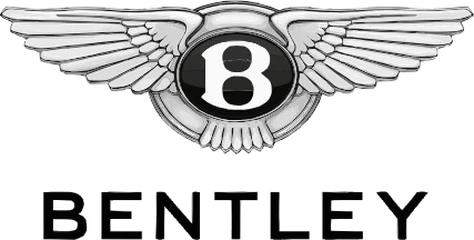
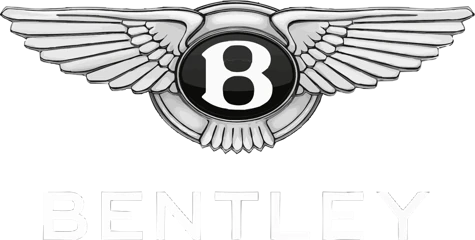
fix(partners): add Maserati; Bentley + Porsche wordmarks read on the dark band
- Maserati was never in the roster (not in V2's approved set, not on
  disk) — Hussein's 'Maserati logo' was a missing logo. Ibrahim supplied
  maserati-4.svg (2026-08-21); rendered via the same pipeline as the V2
  set (headless Chrome, white plate removed, alpha-trimmed, 240px
  transparent WebP) → public/images/partners/maserati.webp, entry after
  Lexus, names in both locales.
- Audited all 29 marks on ink-950: Bentley and Porsche wordmarks were
  black on transparent — invisible, only the crests read. Porsche's
  wordmark path had no fill (defaulted black) → filled white; Bentley is
  a traced raster, so the greys below the emblem were luminance-inverted,
  crest left untouched. Everything else legible (Changan's navy is the
  dimmest). Source SVG removed from the repo root after conversion.

diff --git a/content/partners.ts b/content/partners.ts
@@ -16,6 +16,13 @@
  * call). Still forbidden: fabricated marks of any kind (SK-BLD class
  * error). Logos were re-rendered to trimmed transparent WebPs from
  * V2's public/partners/ files.
+ *
+ * LEGIBILITY ON THE DARK BAND (2026-08-21, Hussein's round): logos render
+ * in original colours on ink-950, so a black wordmark vanishes. Bentley
+ * and Porsche were re-rendered with their wordmarks white (crests
+ * untouched — Porsche's wordmark path had no fill, Bentley's traced
+ * greys were inverted below the emblem). Every other mark was audited on
+ * the band colour and reads; Changan's navy V is the dimmest but legible.
  */
 
 export type PartnerId =
@@ -38,6 +45,7 @@ export type PartnerId =
   | "kia"
   | "lamborghini"
   | "lexus"
+  | "maserati"
   | "mercedes-benz"
   | "nissan"
   | "peugeot"
@@ -103,6 +111,9 @@ export const partners: Partner[] = [
   brand("kia", "Kia"),
   brand("lamborghini", "Lamborghini"),
   brand("lexus", "Lexus"),
+  // Supplied by Ibrahim 2026-08-21 (maserati-4.svg, white plate removed,
+  // rendered to the same 240px transparent WebP as the V2 set).
+  brand("maserati", "Maserati"),
   brand("mercedes-benz", "Mercedes-Benz"),
   brand("nissan", "Nissan"),
   brand("peugeot", "Peugeot"),
